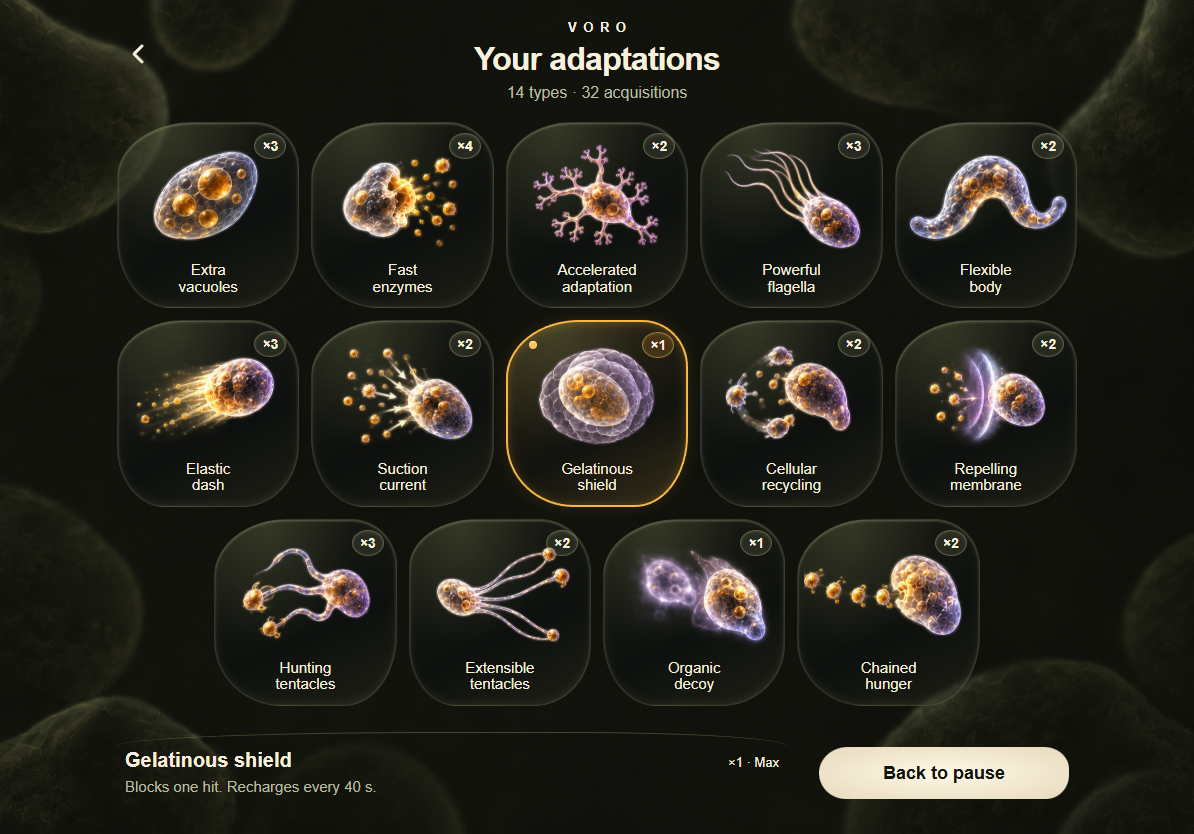
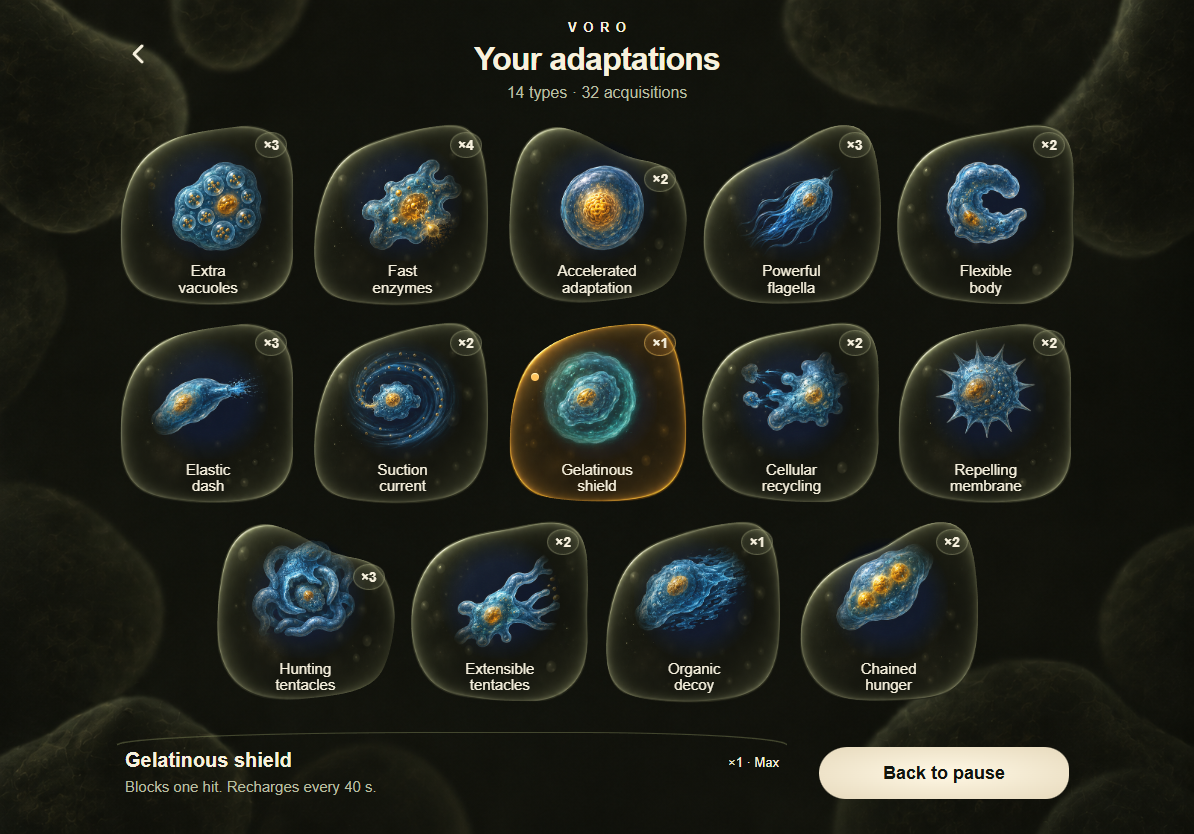
Reuse existing adaptation artwork and restore organic collection framing

diff --git a/app/owned-adaptations.tsx b/app/owned-adaptations.tsx
@@ -6,15 +6,26 @@ import { t } from './language.mjs';
 import { ownedAdaptations, ownedEffect } from './owned-adaptations-data.mjs';
 import './owned-adaptations.css';
 
-// Tight source rectangles preserve each painted silhouette and its padding.
-// The last two subjects are not aligned to the generator's nominal grid.
-const ART_BOUNDS = [
-  [32,70,276,270], [344,72,295,266], [650,66,322,280],
-  [5,365,325,264], [335,406,310,216], [646,383,316,239],
-  [16,672,314,264], [342,674,302,263], [650,670,314,270],
-  [10,963,320,303], [337,980,310,272], [651,979,321,274],
-  [9,1270,340,273], [356,1328,301,188],
+// Reuse the same 5 × 3 atlas and artIndex as the adaptation choice screen.
+const artBounds = (index: number) => [(index % 5) * 1619 / 5, Math.floor(index / 5) * 324, 1619 / 5, 324];
+
+// Painted silhouettes, clipped at their actual contours so the sheet background
+// never forms a rectangle around the approved organic frames.
+const FRAME_BOUNDS = [[30,85,480,416],[536,86,467,416],[1018,88,507,416],[28,550,480,393],[532,533,469,410],[1020,531,490,412]];
+const FRAME_PATHS = [
+  'M88 168 C135 123 252 108 371 93 C458 79 491 107 499 178 C500 230 509 339 496 394 C488 469 449 495 342 491 C236 490 146 487 96 462 C48 439 33 382 36 301 C36 239 50 201 88 168Z',
+  'M583 177 C628 128 701 111 839 97 C929 84 972 94 983 169 C991 218 984 316 987 384 C990 459 961 491 855 493 C752 496 641 494 589 473 C551 455 541 411 546 313 C547 250 554 212 583 177Z',
+  'M1082 180 C1130 136 1223 112 1377 96 C1464 86 1496 102 1504 175 C1512 238 1514 319 1505 391 C1495 464 1464 490 1361 494 C1246 502 1121 495 1071 474 C1036 458 1021 418 1028 337 C1032 260 1047 214 1082 180Z',
+  'M82 587 C117 559 159 555 197 566 C259 579 306 616 373 628 C442 639 485 646 499 701 C511 756 499 818 476 861 C450 909 381 919 283 927 C190 937 120 929 80 906 C41 884 35 846 37 766 C40 692 42 632 82 587Z',
+  'M587 667 C632 629 690 615 746 593 C803 569 856 536 909 540 C961 542 981 577 990 638 C999 700 1002 773 990 827 C974 899 937 924 846 930 C746 938 638 933 591 910 C548 890 538 851 541 786 C543 733 555 697 587 667Z',
+  'M1082 625 C1126 582 1211 548 1341 541 C1437 533 1474 550 1491 611 C1506 671 1506 758 1504 810 C1501 887 1467 924 1371 930 C1267 935 1139 930 1085 912 C1042 898 1028 862 1030 800 C1032 717 1048 665 1082 625Z',
 ];
+function CapsuleFrame({ index, id }: { index: number; id: string }) {
+  return <svg className="owned-shell" viewBox={FRAME_BOUNDS[index].join(' ')} preserveAspectRatio="none" aria-hidden="true">
+    <defs><clipPath id={`owned-shell-${id}`}><path d={FRAME_PATHS[index]} /></clipPath></defs>
+    <image href="/ui/owned-adaptations/capsules.png" width="1536" height="1024" clipPath={`url(#owned-shell-${id})`} />
+  </svg>;
+}
 
 export function OwnedAdaptations({ mutations, onClose, returnFocus }: {
   mutations: string[]; onClose: () => void; returnFocus: RefObject<HTMLButtonElement | null>;
@@ -40,13 +51,19 @@ export function OwnedAdaptations({ mutations, onClose, returnFocus }: {
       <div className="owned-scroll">
         {owned.length ? <div className="owned-grid" role="group" aria-label={t('Tus adaptaciones')}>
           {owned.map(item => <button key={item.id} type="button"
-            className="owned-capsule" data-owned-id={item.id} aria-pressed={selected?.id === item.id}
+            className="owned-capsule" data-owned-id={item.id} data-frame={selected?.id === item.id ? 5 : item.artIndex % 5} aria-pressed={selected?.id === item.id}
             aria-label={`${t(item.name)}, ×${item.count}`} aria-controls="owned-effect"
             onClick={() => setSelectedId(item.id)}>
+            <CapsuleFrame index={selected?.id === item.id ? 5 : item.artIndex % 5} id={item.id} />
             <span className="owned-counter" aria-hidden="true">×{item.count}</span>
-            <svg className="owned-art" aria-hidden="true" viewBox={ART_BOUNDS[item.art].join(' ')}>
-              <defs><clipPath id={`owned-art-${item.id}`}><rect x={ART_BOUNDS[item.art][0]} y={ART_BOUNDS[item.art][1]} width={ART_BOUNDS[item.art][2]} height={ART_BOUNDS[item.art][3]} /></clipPath></defs>
-              <image href="/ui/owned-adaptations/organisms.png" width="972" height="1619" clipPath={`url(#owned-art-${item.id})`} />
+            <svg className="owned-art" aria-hidden="true" data-art-index={item.artIndex} viewBox={artBounds(item.artIndex).join(' ')}>
+              <defs>
+                <radialGradient id={`owned-fade-${item.id}`} r="52%"><stop offset="58%" stopColor="white" /><stop offset="100%" stopColor="white" stopOpacity="0" /></radialGradient>
+                <mask id={`owned-art-${item.id}`} maskUnits="userSpaceOnUse" x={artBounds(item.artIndex)[0]} y={artBounds(item.artIndex)[1]} width={1619 / 5} height="324">
+                  <rect x={artBounds(item.artIndex)[0]} y={artBounds(item.artIndex)[1]} width={1619 / 5} height="324" fill={`url(#owned-fade-${item.id})`} />
+                </mask>
+              </defs>
+              <image href="/upgrades/biological-adaptations.png" width="1619" height="972" mask={`url(#owned-art-${item.id})`} />
             </svg>
             <span className="owned-name">{t(item.name).split(' ').map((word: string,i: number) => <span key={i}>{word}{' '}</span>)}</span>
           </button>)}

diff --git a/app/owned-adaptations.css b/app/owned-adaptations.css
@@ -9,7 +9,7 @@
   transform: none; translate: none; border: 0; border-radius: 0;
   padding: max(14px, var(--owned-safe-top)) 12px max(14px, var(--owned-safe-bottom));
   display: flex; flex-direction: column; gap: 0;
-  color: var(--owned-cream); background: #11140e url('/ui/owned-adaptations/background.png') center / cover;
+  color: var(--owned-cream); background: #11140e url('/ui/owned-adaptations/background-portrait.png') center / 100% 100%;
   box-shadow: none; animation: none; overflow: hidden;
   font-family: Arial, Helvetica, sans-serif; line-height: 1.25;
   color-scheme: dark; isolation: isolate;
@@ -27,19 +27,15 @@
 .owned-capsule {
   position: relative; display: flex; flex-direction: column; align-items: center; justify-content: flex-end;
   flex: 0 0 calc((100% - 12px) / 3); min-width: 0; height: clamp(96px, calc((100dvh - 280px - var(--owned-safe-top) - var(--owned-safe-bottom)) / 5), 155px);
-  padding: 3px 6px 8px; border: 1px solid #92987540;
-  border-radius: 42% 24% 35% 29% / 30% 24% 33% 37%;
-  background: radial-gradient(ellipse at 28% 4%, #a6ae7030, transparent 47%), linear-gradient(155deg, #42493638, #0d100edb 60%, #43483240);
-  box-shadow: inset 0 1px 2px #dee3b54a, inset 0 -2px 7px #c3c99818;
-  color: var(--owned-cream); transition: border-color .15s, background-color .15s;
+  padding: 7px 10px 11px; border: 0; border-radius: 30%; background: none; box-shadow: none;
+  color: var(--owned-cream); isolation: isolate;
 }
-.owned-capsule:nth-child(3n+2) { border-radius: 40% 25% 29% 37% / 31% 25% 38% 35%; }
-.owned-capsule:nth-child(3n) { border-radius: 37% 28% 31% 26% / 26% 29% 33% 32%; }
-.owned-capsule[aria-pressed='true'] { border: 2px solid #f6b743; padding: 2px 5px 7px; background-color: #79501b50; box-shadow: inset 0 1px 9px #ffb62b40, 0 0 13px #ffb32722; }
-.owned-capsule[aria-pressed='true']::after { content: ''; position: absolute; left: 12%; top: 10%; width: 8px; height: 8px; border-radius: 50%; background: #ffc35c; box-shadow: inset 0 1px 1px #fff9c9; }
-.owned-counter { position: absolute; top: 5px; right: 7px; z-index: 1; min-width: 25px; padding: 3px 5px; border: 1px solid #b9be8f55; border-radius: 50%; background: #62694a40; box-shadow: inset 0 1px 3px #d5dc9c25; font-size: 12px; line-height: 16px; font-weight: 600; }
+.owned-shell { position: absolute; inset: 0; width: 100%; height: 100%; z-index: -1; pointer-events: none; }
+.owned-capsule[data-frame='3'] .owned-counter { top: 24%; }
+.owned-capsule[aria-pressed='true']::after { content: ''; position: absolute; left: 14%; top: 28%; width: 8px; height: 8px; border-radius: 50%; background: #ffc35c; box-shadow: inset 0 1px 1px #fff9c9; }
+.owned-counter { position: absolute; top: 7px; right: 9px; z-index: 1; min-width: 25px; padding: 3px 5px; border: 1px solid #b9be8f55; border-radius: 50%; background: #62694a40; box-shadow: inset 0 1px 3px #d5dc9c25; font-size: 12px; line-height: 16px; font-weight: 600; }
 .owned-capsule[aria-pressed='true'] .owned-counter { border-color: #e6b55580; background: #92602050; }
-.owned-art { display: block; flex: 1 1 auto; width: 100%; min-height: 0; overflow: hidden; margin: 7px 0 2px; }
+.owned-art { display: block; flex: 1 1 auto; width: 100%; min-height: 0; overflow: hidden; margin: 7px 0 2px; mix-blend-mode: screen; }
 .owned-name { position: relative; flex: none; width: 100%; min-height: 2.2em; display: flex; flex-direction: column; justify-content: center; font-size: clamp(11px, 3.1vw, 15px); line-height: 1.1; font-weight: 500; text-align: center; }
 .owned-footer { flex: none; width: 100%; max-width: 490px; margin: 6px auto 0; padding: 0 8px; }
 .owned-detail { position: relative; padding: 16px 0 12px; min-height: 87px; }
@@ -52,14 +48,13 @@
 .owned-empty { max-width: 350px; margin: min(20vh, 120px) auto 30px; text-align: center; color: var(--owned-sage); line-height: 1.6; }
 .owned-empty p { color: var(--owned-cream); font-size: 20px; margin-bottom: 8px; }
 @media (min-width: 760px) and (orientation: landscape) {
-  [data-slot='dialog-content'].owned-adaptations { padding: max(20px, env(safe-area-inset-top)) max(28px, env(safe-area-inset-right)) max(20px, env(safe-area-inset-bottom)) max(28px, env(safe-area-inset-left)); }
+  [data-slot='dialog-content'].owned-adaptations { padding: max(20px, env(safe-area-inset-top)) max(28px, env(safe-area-inset-right)) max(20px, env(safe-area-inset-bottom)) max(28px, env(safe-area-inset-left)); background-image: url('/ui/owned-adaptations/background.png'); }
   .owned-header { max-width: 960px; margin-bottom: 16px; }
   .owned-header [data-slot='dialog-title'] { font-size: 32px; }
   .owned-header [data-slot='dialog-description'] { font-size: 16px; }
   .owned-back { top: 12px; }
   .owned-grid { max-width: 960px; gap: 12px; }
   .owned-capsule { flex-basis: calc((100% - 48px) / 5); height: clamp(132px, calc((100dvh - 274px) / 3), 195px); padding-bottom: 12px; }
-  .owned-capsule[aria-pressed='true'] { padding-bottom: 11px; }
   .owned-art { max-height: 145px; margin-top: 12px; }
   .owned-name { font-size: 15px; }
   .owned-counter { top: 10px; right: 12px; font-size: 14px; padding: 4px 7px; }

diff --git a/design/owned-adaptations-ui-2026-09-29/implementation/review.html b/design/owned-adaptations-ui-2026-09-29/implementation/review.html
@@ -1,6 +1,6 @@
 <!doctype html><html lang="es"><meta charset="utf-8"><meta name="viewport" content="width=device-width,initial-scale=1"><title>VORO · Tus adaptaciones D3</title>
 <style>body{margin:0;background:#11140e;color:#f7f1de;font:16px/1.5 system-ui}main{max-width:1080px;margin:auto;padding:30px 20px}h1{margin:0;font-size:28px}p{color:#bbc0a5}a{color:#ffce79}.pair{display:grid;grid-template-columns:1fr 1fr;gap:24px}figure{margin:0}figcaption{margin:12px 0}img{display:block;max-width:100%;max-height:850px;object-fit:contain;object-position:top;margin:auto}figure.wide{margin-top:30px}.wide img{max-height:none}@media(max-width:600px){main{padding:16px 10px}.pair{gap:10px}figcaption{font-size:13px}}</style>
-<main><h1>Tus adaptaciones · D3</h1><p>La opción elegida, implementada. Capturas de una partida de prueba con 14 tipos y 32 adquisiciones. Solo aparecen las que posees en tu partida.</p><p><a href="/?ui=final">Abrir el juego</a> · Pausa → Tus adaptaciones</p>
-<div class="pair"><figure><figcaption>Diseño aprobado</figcaption><a href="../D3-organica.png"><img src="../D3-organica.png" alt="Referencia D3 aprobada"></a></figure><figure><figcaption>Implementación real · compilación móvil en WebKit</figcaption><a href="webkit-iphone-build.png"><img src="webkit-iphone-build.png" alt="Captura real de la colección implementada"></a></figure></div>
-<figure class="wide"><figcaption>Implementación real · escritorio</figcaption><a href="chrome-pc-build.png"><img src="chrome-pc-build.png" alt="Colección de adaptaciones en PC"></a></figure>
+<main><h1>Tus adaptaciones · D3</h1><p>Diseño orgánico corregido: imágenes originales de las adaptaciones, fondo completo y cápsulas de distintas formas. Capturas de una partida de prueba con 14 tipos y 32 adquisiciones. Solo aparecen las que posees en tu partida.</p><p><a href="/?ui=final">Abrir el juego</a> · Pausa → Tus adaptaciones</p>
+<div class="pair"><figure><figcaption>Referencia de diseño · iconos de la propuesta descartados</figcaption><a href="../D3-organica.png"><img src="../D3-organica.png" alt="Referencia D3 aprobada"></a></figure><figure><figcaption>Implementación real · compilación móvil en WebKit</figcaption><a href="webkit-iphone-build.png"><img src="webkit-iphone-build.png?v=original-art-organic-frames" alt="Captura real de la colección implementada"></a></figure></div>
+<figure class="wide"><figcaption>Implementación real · escritorio</figcaption><a href="chrome-pc-build.png"><img src="chrome-pc-build.png?v=original-art-organic-frames" alt="Colección de adaptaciones en PC"></a></figure>
 <p>Pruebas de interfaz en navegador; esta pantalla aún no se ha enviado a TestFlight.</p></main></html>

diff --git a/design/owned-adaptations-ui-2026-09-29/implementation/README.md b/design/owned-adaptations-ui-2026-09-29/implementation/README.md
@@ -6,8 +6,9 @@ Referencia aprobada por el usuario el 29-09-2026: `../D3-organica.png`. Se abre 
 - Los 14 tipos actuales caben en la vista de referencia de 390 × 844, incluso con márgenes de seguridad simulados de 47/34 px. En alturas pequeñas la colección permite desplazamiento; el detalle y el retorno permanecen accesibles.
 - Selección ámbar, detalle del efecto acumulado, indicador de máximo, totales de tipos y adquisiciones. Valores derivados de `upgradeStats` y los límites reales, sin cambiar equilibrio ni partida.
 - Castellano/inglés según la preferencia vigente. Cinco columnas en escritorio/iPad horizontal, tres en vertical. Escape, flecha y botón inferior devuelven a la pausa; no reanudan la simulación.
-- Arte derivado con ChatGPT Imágenes integrado en `public/ui/owned-adaptations/`: `organisms.png` conserva alfa real y `background.png` es el fondo oscuro orgánico. Prompts en `prompts.json`; huellas en `hashes.json`. Los rectángulos SVG recortan el atlas sin deformarlo ni mostrar fragmentos vecinos.
-- Las dos imágenes se solicitan al abrir esta pantalla, no durante la partida. No hay bucles de animación, canvas adicional ni filtros por fotograma en la colección.
+- Corrección expresa del usuario: las ilustraciones son exactamente las originales de `public/upgrades/biological-adaptations.png`, con el mismo `artIndex` que en la elección de adaptaciones. La nueva colección no inventa otro vocabulario de iconos. El atlas nuevo rechazado se conserva solo como evidencia en `rejected-organisms.png`, fuera de `public/`.
+- Fondo vertical completo `background-portrait.png`, fondo horizontal `background.png` y cinco siluetas neutras más una seleccionada pintadas en `capsules.png`. Fondos y marcos derivados de D3 con ChatGPT Imágenes; prompts en `prompts.json`. El marco usa su contorno SVG exacto como recorte para que el fondo de la hoja no aparezca alrededor. Las ilustraciones originales usan un desvanecimiento radial equivalente al de las opciones del juego.
+- Los fondos y marcos de la colección se solicitan al abrir esta pantalla, no durante la partida. El atlas original se comparte con las elecciones. No hay bucles de animación, canvas adicional ni filtros por fotograma en la colección.
 
 ## Verificación
 
@@ -20,6 +21,8 @@ Referencia aprobada por el usuario el 29-09-2026: `../D3-organica.png`. Se abre 
 - `scripts/check-pause-frame-parity.mjs`: seis escenarios correctos, conserva el único borde pintado de los botones de pausa y los avisos. Se actualizó el recuento para incluir el nuevo acceso.
 - Se detectó y corrigió una diferencia entre desarrollo y el CSS optimizado para Safari: la colección anula también las clases de traslación del diálogo, evitando que el bundle aparezca desplazado media pantalla.
 
-Capturas finales: `*-build.png`. `review.html` compara referencia y capturas reales. Las capturas usan una partida aislada de prueba, no modifican la del usuario.
+Se verificó también la correspondencia de los 14 iconos con el atlas original y la variedad de siluetas.
+
+Capturas finales actualizadas tras las correcciones de ilustraciones, fondo y marcos: `*-build.png`. `review.html` compara referencia y capturas reales. Las capturas usan una partida aislada de prueba, no modifican la del usuario.
 
 Esto acredita los bundles web móvil/PC y WebKit de escritorio, **no una ejecución física en iPhone/iPad**. TestFlight sigue en **0.9 (2)**; no se ha subido una nueva build ni empaquetado otro ejecutable Windows por este encargo.
